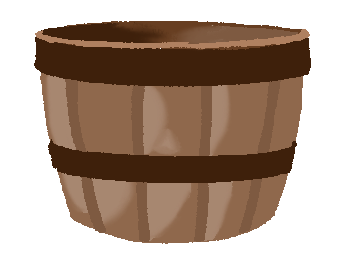
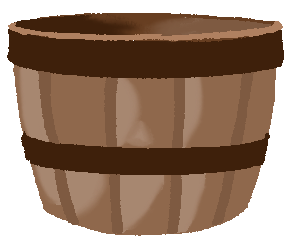
add scores on screen

Changed region(s): [[0.0307, 0.0286, 0.9829, 0.9714]]

diff --git a/main.py b/main.py
@@ -6,7 +6,7 @@ import random
 pygame.init() 
 
 # CONSTANTS 
-WIDTH, HEIGHT = 1000, 600
+WIDTH, HEIGHT = 800, 600
 BACKGROUND_COLOR = (30, 30, 50)  # dark blue 
 PLAYER_COLOR = (80, 200,120)  # green
 ITEM_COLOR = (240, 200,60)  # yellow 
@@ -33,6 +33,7 @@ basket_img = load_scaled("basket.png", BASKET_WIDTH)
 fruit_files = ["apple.png", "banana.png", "cherries.png", "grapes.png"]
 fruit_images = [load_scaled(f, FRUIT_WIDTH) for f in fruit_files]
 
+font = pygame.font.Font(None, 40) # none = default for all browsers
 
 # Create a clock to control the frame rate
 clock = pygame.time.Clock()
@@ -108,7 +109,6 @@ async def main():
             for item in items: 
                 if catch_zone.colliderect(item.rect):
                     score += 1
-                    print (score)
                 elif item.rect.top < HEIGHT:
                     remaining.append (item)
             items = remaining
@@ -120,6 +120,8 @@ async def main():
             item.draw(screen)
 
         # Push what we drew to the screen
+        score_text = font.render(f"Score: {score}", True, (255, 255, 255))
+        screen.blit(score_text, (10, 10))
         pygame.display.flip()
         clock.tick(60)  # limit to 60 FPS
         await asyncio.sleep(0)  # yield control to the event loop 
